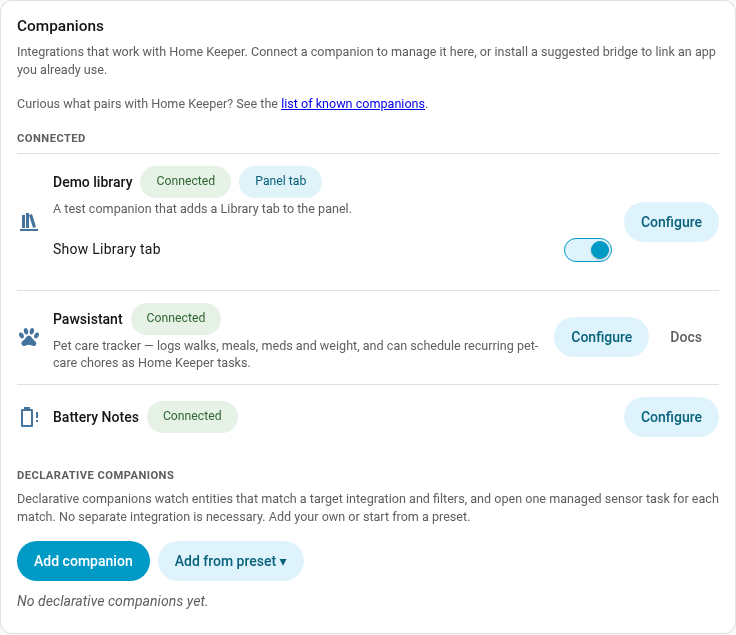
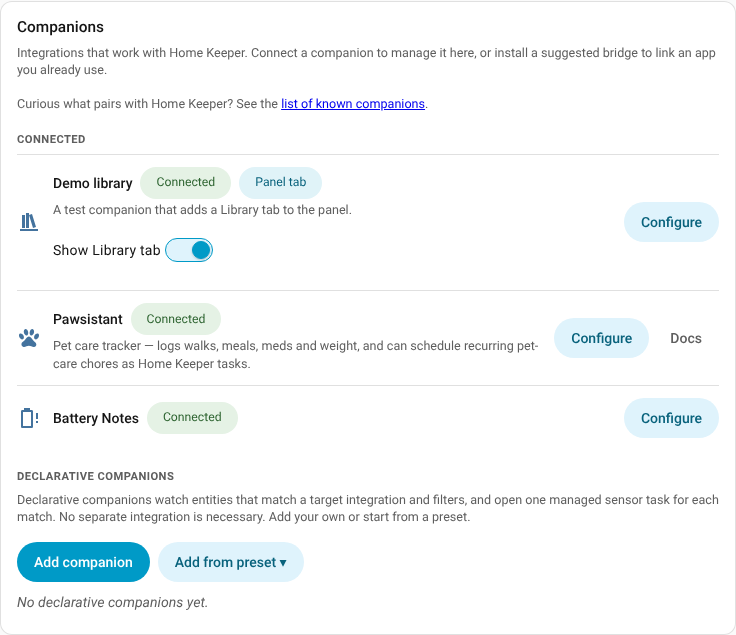
Put the Show tab switch next to its label, and move to 0.30.0b4
Claude-Session: https://claude.ai/code/session_01TK46XiqTFwRdZguhrbZxTG

diff --git a/custom_components/home_keeper/frontend/src/panel-styles.ts b/custom_components/home_keeper/frontend/src/panel-styles.ts
@@ -791,7 +791,8 @@ export const STYLES = `
     --ha-assist-chip-outline-color: transparent;
     font-weight: 500;
   }
-  .hk-comp-tab-switch { margin-top: 4px; }
+  /* The switch sits next to its label, not at the far edge of the text column. */
+  .hk-comp-tab-switch { margin-top: 4px; width: fit-content; max-width: 100%; }
   /* A companion tab: its element fills the content column. */
   .hk-tab-host { display: block; min-height: 120px; }
   .hk-tab-msg { display: flex; flex-direction: column; align-items: flex-start; gap: 12px; }

diff --git a/docs/design/architecture.md b/docs/design/architecture.md
@@ -10,7 +10,7 @@ implements:
   - custom_components/home_keeper/diagnostics.py
   - custom_components/home_keeper/manifest.json
 related: [recurrence, store, coordinator-entities, events-api, frontend, companions-presets]
-source_hash: 667fb62dfbe0
+source_hash: a3d56f56e3ed
 ---
 
 # Architecture
@@ -43,7 +43,7 @@ the tasks through native entities, such as the to-do list and the calendar.
 | Layer | Modules | Rule |
 |---|---|---|
 | Pure core | `recurrence.py`, `models.py`, `assets.py`, `events.py`, `transitions.py`, `profiles.py`, `notifications.py`, `transfer.py`, `reconcile.py`, `sensor_tasks.py`, `problem_tasks.py`, `shopping.py`, `todo_items.py`, `task_photos.py`, `const.py`, the catalogs | No `homeassistant` import. Time and zone come in as arguments. |
-| Boundary | `options.py`, `coordinator.py`, `device_compat.py`, `notifier.py`, `card.py`, `sensor_watcher.py`, `tag_listener.py`, `photo_thumbs.py` | Home Assistant imports only under `TYPE_CHECKING`. |
+| Boundary | `options.py`, `coordinator.py`, `device_compat.py`, `notifier.py`, `card.py`, `sensor_watcher.py`, `tag_listener.py`, `photo_thumbs.py`, `panel_tabs.py` | Home Assistant imports only under `TYPE_CHECKING`. |
 | Glue | `__init__.py`, `store.py`, `devices.py`, `websocket_api.py`, `panel.py`, `config_flow.py`, `diagnostics.py`, `manuals.py`, `companions.py`, the sync modules | Talks to Home Assistant and calls into the core. |
 | Platforms | `todo.py`, `calendar.py`, `button.py`, `sensor.py`, `binary_sensor.py`, `number.py` | `const.PLATFORMS` lists them. |
 
@@ -93,8 +93,8 @@ A failure in the repair or the prune is logged and does not stop setup.
 `async_unload_entry` unloads the platforms and discards edge state for a disabled entry. It
 closes the store so that a pass from before the unload cannot write over a new store.
 It removes the panel only for a disabled entry, because a reload with no panel sends an
-open page to the default dashboard. `async_remove_entry` removes the panel, the card
-resource, the storage document and the uploaded files.
+open page to the default dashboard. `async_remove_entry` removes the panel, the companion
+tabs, the card resource, the storage document and the uploaded files.
 
 ### Config entry and options
 

diff --git a/docs/design/frontend.md b/docs/design/frontend.md
@@ -30,7 +30,7 @@ implements:
   - custom_components/home_keeper/card_resource.py
   - custom_components/home_keeper/backend_i18n.py
 related: [architecture, coordinator-entities, events-api, profiles-notifications]
-source_hash: 09875a07b1b0
+source_hash: 6b8ed29229f5
 ---
 
 # Frontend
@@ -80,18 +80,18 @@ stale values over another. `dialogs.makeDialog` is the one `ha-dialog` builder.
 
 ### Routes
 
-`utils.parseRoute` and `utils.buildPath` are pure and round-trip. Paths: `/tasks`,
-`/tasks/<id>`, `/appliances`, `/appliances/<id>`, `/appliances/<id>/<tab>` (`ASSET_TABS`) and
-`/settings/<section>` (`SETTINGS_SECTIONS`). An unknown path gives the task list. `set route`
-is the only place that changes `_view` and `_detail`, via `_applyLocation`. Code navigates with
-`_navigate(loc, replace)`: opening a detail pushes; a tab switch, a close or a delete replaces.
-A form is an overlay with no URL. `utils.navigateTo` leaves the panel, with a visible mark.
+`utils.parseRoute` and `utils.buildPath` are pure and round-trip. Paths: `/tasks`, `/tasks/<id>`,
+`/appliances`, `/appliances/<id>`, `/appliances/<id>/<tab>` (`ASSET_TABS`), `/settings/<section>`
+(`SETTINGS_SECTIONS`) and `/<tab id>/<path>` for a companion tab ([panel-tabs](panel-tabs.md)).
+Other paths give the task list. Only `set route` changes `_view` and `_detail` (`_applyLocation`).
+`_navigate(loc, replace)`: a detail pushes; a tab switch, a close or a delete replaces. A form
+is an overlay with no URL. `utils.navigateTo` leaves the panel, with a visible mark.
 
 ### Data and refresh
 
-`api.ts` wraps the websocket commands; `types.ts` declares their shapes. `_refresh` loads all
-data. On each `hass` push, `_liveRefresh` compares `utils.hkStateSignal` and loads again when
-a task changed elsewhere, but not while a form or a dialog is open.
+`api.ts` wraps the websocket commands and `types.ts` their shapes. `_refresh` loads all data.
+`_liveRefresh` loads again on a new `utils.hkStateSignal`, but not while a form or a dialog is
+open. `_lookUpDetail` loads again, with a spinner, for a detail id that the lists do not have.
 
 ### Task layouts and preferences
 

diff --git a/docs/design/profiles-notifications.md b/docs/design/profiles-notifications.md
@@ -8,7 +8,7 @@ implements:
   - custom_components/home_keeper/frontend/src/panel-settings.ts
   - custom_components/home_keeper/frontend/src/card-filter.ts
 related: [coordinator-entities, events-api, sync, companions-presets, frontend]
-source_hash: 7e0d89437e3a
+source_hash: 58efc5c45134
 ---
 
 # Profiles and notifications
